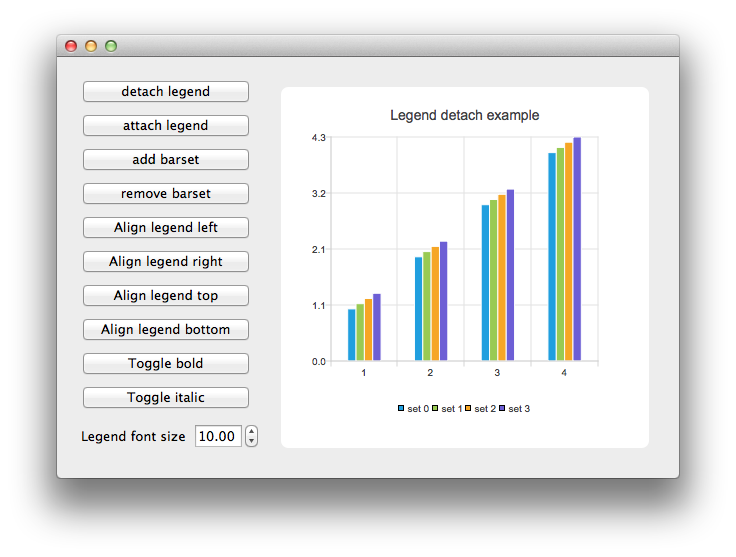
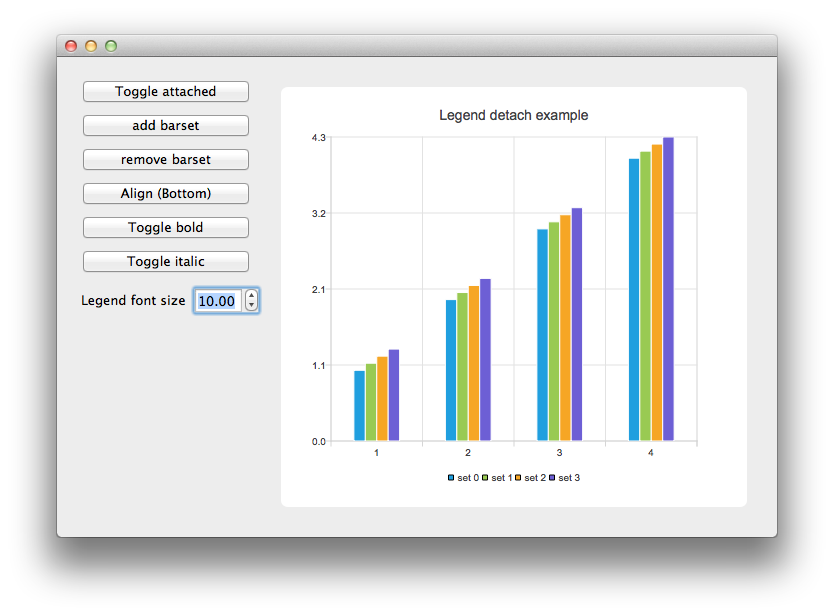
Fixed a bug with legend attach requiring a screen resize to update UI

diff --git a/examples/legend/mainwidget.cpp b/examples/legend/mainwidget.cpp
@@ -36,12 +36,9 @@ MainWidget::MainWidget(QWidget *parent) :
 {
     // Create buttons for ui
     m_buttonLayout = new QGridLayout();
-    QPushButton *detachLegendButton = new QPushButton("detach legend");
-    connect(detachLegendButton, SIGNAL(clicked()), this, SLOT(detachLegend()));
+    QPushButton *detachLegendButton = new QPushButton("Toggle attached");
+    connect(detachLegendButton, SIGNAL(clicked()), this, SLOT(toggleAttached()));
     m_buttonLayout->addWidget(detachLegendButton, 0, 0);
-    QPushButton *attachLegendButton = new QPushButton("attach legend");
-    connect(attachLegendButton, SIGNAL(clicked()), this, SLOT(attachLegend()));
-    m_buttonLayout->addWidget(attachLegendButton, 1, 0);
 
     QPushButton *addSetButton = new QPushButton("add barset");
     connect(addSetButton, SIGNAL(clicked()), this, SLOT(addBarset()));
@@ -50,21 +47,9 @@ MainWidget::MainWidget(QWidget *parent) :
     connect(removeBarsetButton, SIGNAL(clicked()), this, SLOT(removeBarset()));
     m_buttonLayout->addWidget(removeBarsetButton, 3, 0);
 
-    QPushButton *leftButton = new QPushButton("Align legend left");
-    connect(leftButton, SIGNAL(clicked()), this, SLOT(setLegendLeft()));
-    m_buttonLayout->addWidget(leftButton, 4, 0);
-
-    QPushButton *rightButton = new QPushButton("Align legend right");
-    connect(rightButton, SIGNAL(clicked()), this, SLOT(setLegendRight()));
-    m_buttonLayout->addWidget(rightButton, 5, 0);
-
-    QPushButton *topButton = new QPushButton("Align legend top");
-    connect(topButton, SIGNAL(clicked()), this, SLOT(setLegendTop()));
-    m_buttonLayout->addWidget(topButton, 6, 0);
-
-    QPushButton *bottomButton = new QPushButton("Align legend bottom");
-    connect(bottomButton, SIGNAL(clicked()), this, SLOT(setLegendBottom()));
-    m_buttonLayout->addWidget(bottomButton, 7, 0);
+    QPushButton *alignButton = new QPushButton("Align (Bottom)");
+    connect(alignButton, SIGNAL(clicked()), this, SLOT(setLegendAlignment()));
+    m_buttonLayout->addWidget(alignButton, 4, 0);
 
     QPushButton *boldButton = new QPushButton("Toggle bold");
     connect(boldButton, SIGNAL(clicked()), this, SLOT(toggleBold()));
@@ -85,8 +70,8 @@ MainWidget::MainWidget(QWidget *parent) :
     connect(m_legendHeight, SIGNAL(valueChanged(double)), this, SLOT(updateLegendLayout()));
 
     QFormLayout* legendLayout = new QFormLayout();
-    legendLayout->addRow("Horizontal position", m_legendPosX);
-    legendLayout->addRow("Vertical position", m_legendPosY);
+    legendLayout->addRow("HPos", m_legendPosX);
+    legendLayout->addRow("VPos", m_legendPosY);
     legendLayout->addRow("Width", m_legendWidth);
     legendLayout->addRow("Height", m_legendHeight);
     m_legendSettings = new QGroupBox("Detached legend");
@@ -163,32 +148,25 @@ void MainWidget::hideLegendSpinbox()
 }
 
 
-void MainWidget::detachLegend()
+void MainWidget::toggleAttached()
 {
-//![2]
     QLegend *legend = m_chart->legend();
-    legend->detachFromChart();
-
-    m_chart->legend()->setBackgroundVisible(true);
-    m_chart->legend()->setBrush(QBrush(QColor(128,128,128,128)));
-    m_chart->legend()->setPen(QPen(QColor(192,192,192,192)));
-//![2]
-
-    showLegendSpinbox();
-    updateLegendLayout();
-    update();
-}
-
-
-void MainWidget::attachLegend()
-{
-//![3]
-    QLegend *legend = m_chart->legend();
-    legend->attachToChart();
-    m_chart->legend()->setBackgroundVisible(false);
-//![3]
-
-    hideLegendSpinbox();
+    if (legend->isAttachedToChart()) {
+        //![2]
+        legend->detachFromChart();
+        m_chart->legend()->setBackgroundVisible(true);
+        m_chart->legend()->setBrush(QBrush(QColor(128,128,128,128)));
+        m_chart->legend()->setPen(QPen(QColor(192,192,192,192)));
+        //![2]
+        showLegendSpinbox();
+        updateLegendLayout();
+    } else {
+        //![3]
+        legend->attachToChart();
+        legend->setBackgroundVisible(false);
+        //![3]
+        hideLegendSpinbox();
+    }
     update();
 }
 
@@ -208,24 +186,32 @@ void MainWidget::removeBarset()
     }
 }
 
-void MainWidget::setLegendLeft()
+void MainWidget::setLegendAlignment()
 {
-    m_chart->legend()->setAlignment(Qt::AlignLeft);
-}
+    QPushButton *button = qobject_cast<QPushButton *>(sender());
 
-void MainWidget::setLegendRight()
-{
-    m_chart->legend()->setAlignment(Qt::AlignRight);
-}
-
-void MainWidget::setLegendTop()
-{
-    m_chart->legend()->setAlignment(Qt::AlignTop);
-}
-
-void MainWidget::setLegendBottom()
-{
-    m_chart->legend()->setAlignment(Qt::AlignBottom);
+    switch (m_chart->legend()->alignment()) {
+    case Qt::AlignTop:
+        m_chart->legend()->setAlignment(Qt::AlignLeft);
+        if (button)
+            button->setText("Align (Left)");
+        break;
+    case Qt::AlignLeft:
+        m_chart->legend()->setAlignment(Qt::AlignBottom);
+        if (button)
+            button->setText("Align (Bottom)");
+        break;
+    case Qt::AlignBottom:
+        m_chart->legend()->setAlignment(Qt::AlignRight);
+        if (button)
+            button->setText("Align (Right)");
+        break;
+    default:
+        if (button)
+            button->setText("Align (Top)");
+        m_chart->legend()->setAlignment(Qt::AlignTop);
+        break;
+    }
 }
 
 void MainWidget::toggleBold()

diff --git a/examples/legend/mainwidget.h b/examples/legend/mainwidget.h
@@ -46,15 +46,11 @@ public:
 signals:
     
 public slots:
-    void detachLegend();
-    void attachLegend();
+    void toggleAttached();
     void addBarset();
     void removeBarset();
 
-    void setLegendLeft();
-    void setLegendRight();
-    void setLegendTop();
-    void setLegendBottom();
+    void setLegendAlignment();
 
     void toggleBold();
     void toggleItalic();

diff --git a/src/legend/qlegend.cpp b/src/legend/qlegend.cpp
@@ -368,7 +368,7 @@ void QLegend::detachFromChart()
 void QLegend::attachToChart()
 {
     d_ptr->m_attachedToChart = true;
-    d_ptr->m_layout->invalidate();
+    d_ptr->m_presenter->layout()->invalidate();
     setParent(d_ptr->m_chart);
 }
 

diff --git a/examples/legend/main.cpp b/examples/legend/main.cpp
@@ -30,7 +30,7 @@ int main(int argc, char *argv[])
     QApplication a(argc, argv);
 
     MainWidget w;
-    w.resize(1024,768);
+    w.resize(720, 480);
     w.show();
 
     return a.exec();
